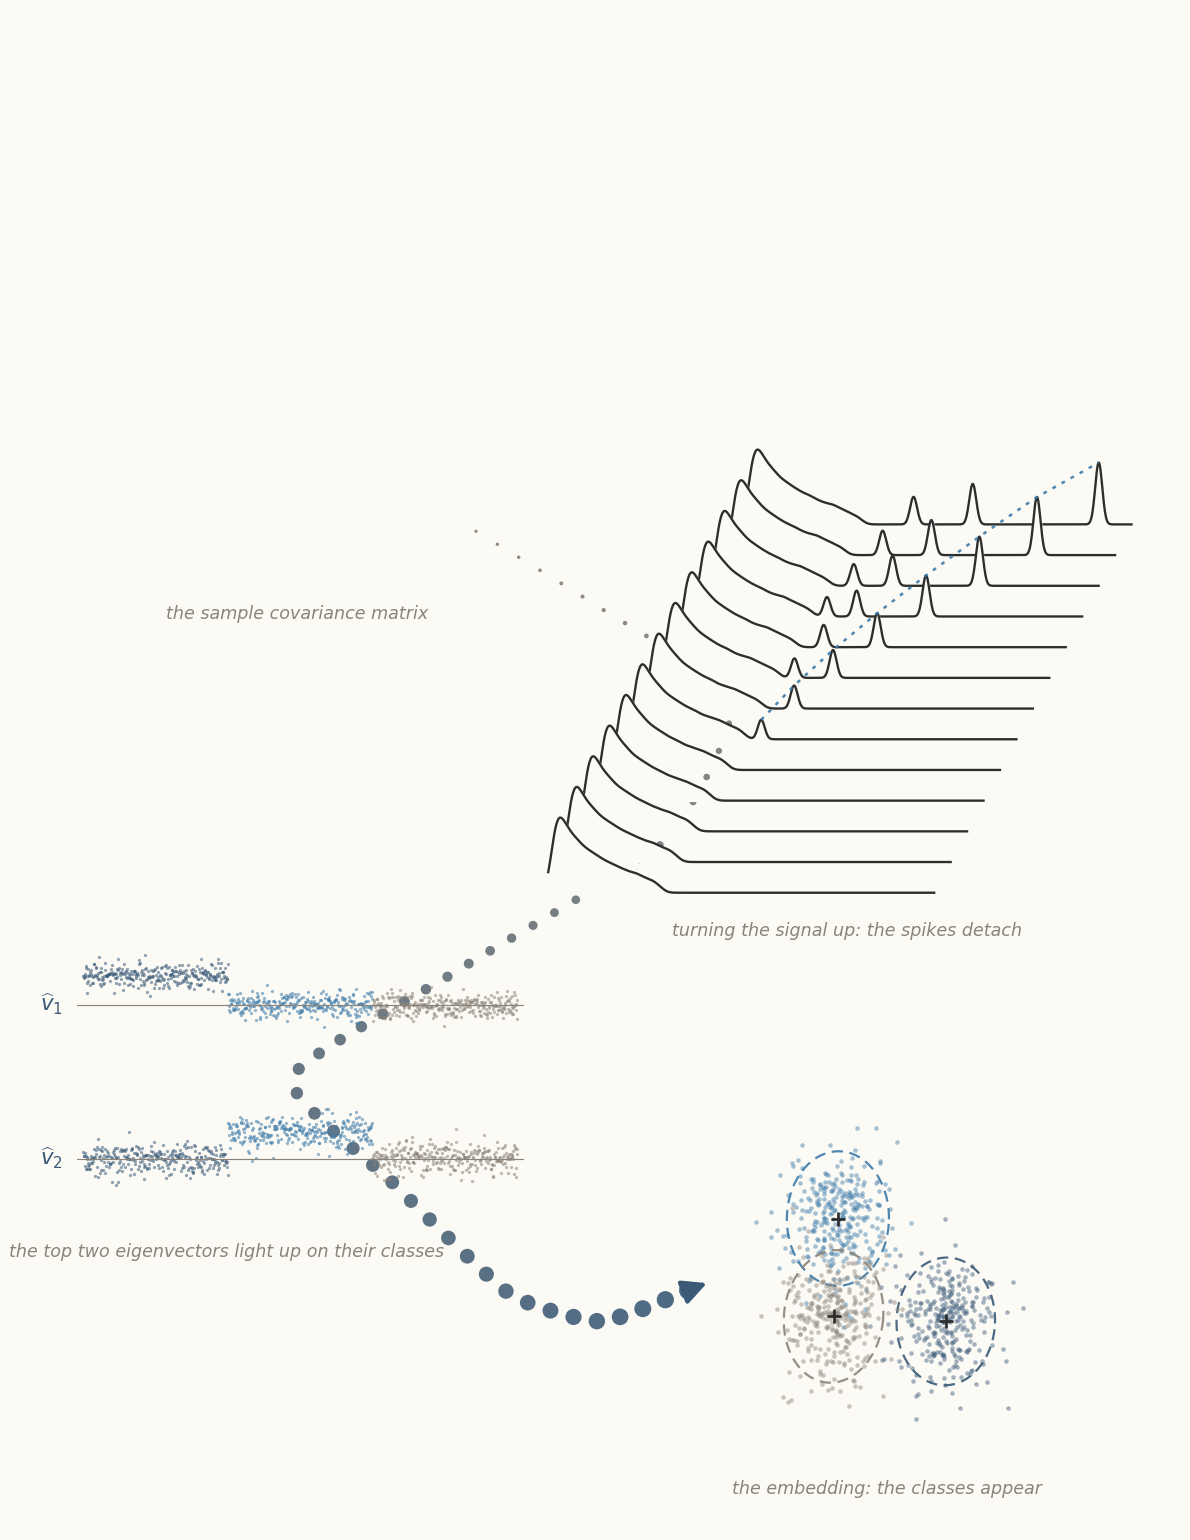
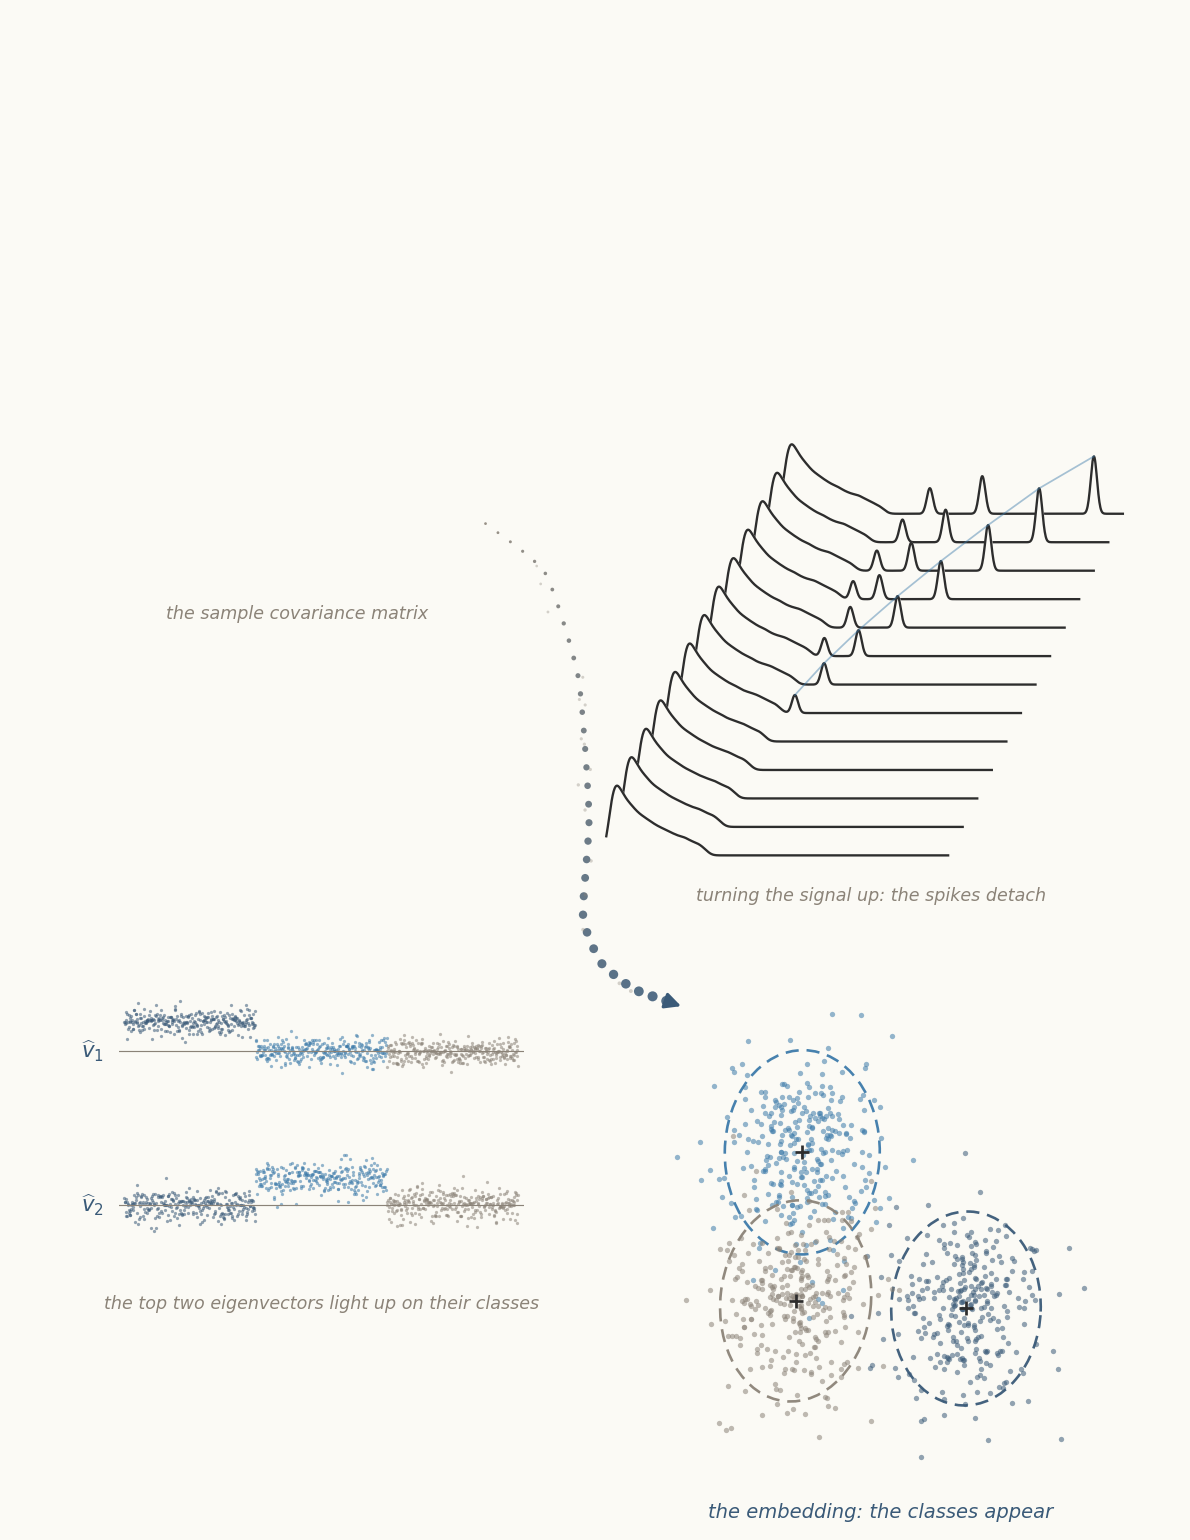
Cover v7: bigger header type, gravity-arc flow, largest finale
- Title to 28pt, subtitle 15.5pt, author 15pt, support lines to small;
  sage band deepened to 0.30in with a level slate keyline.
- The flow is now a single ballistic arc of fine particles with a
  sparse dust tail, falling through the EMPTY corridor between panels,
  never covering a figure, ending in a capture hook and slim arrowhead
  just above the blue cluster's halo.
- The embedding is now the page's largest panel, with heavier halos,
  denser points, and its caption stepped up to slate 10pt; the in-
  waterfall spike track became a thin solid muted-blue line so it can
  no longer be confused with the flow.
- Eigenvector strips moved down-right so their label column aligns
  under the matrix; captions repositioned.

Design-critic agent reviewed the previous render (10 recommendations);
applied: track/flow disambiguation, landing resolution, thicker band,
left-column alignment, louder finale, slate finale caption. Rejected
as conflicting with the new no-overlap rule or minimalism: occlusion
dots, sage rule under byline. Fixed in self-review: a diagonal band
keyline from a bad edit, and a hook that landed in mid-air.

diff --git a/notebooks/06_titlepage_art.py b/notebooks/06_titlepage_art.py
@@ -113,7 +113,7 @@ def make_cover() -> Path:
     caption(0.25, 0.598, "the sample covariance matrix")
 
     # ---- panel 2 (right): the waterfall, signal dialed up -------------------
-    ax = bare_axes([0.45, 0.41, 0.525, 0.345])
+    ax = bare_axes([0.50, 0.435, 0.465, 0.32])
     xg = np.linspace(0.01, 9.4, 700)
     edge_plus = (1 + np.sqrt(Y_ASPECT)) ** 2
     n_rows = len(rows)
@@ -139,18 +139,18 @@ def make_cover() -> Path:
         ax.plot(xs, base + z, color=INK, lw=1.2, zorder=zo + 1)
     # the comet track through the detaching peaks
     track = np.array(sorted(track))
-    ax.plot(track[:, 0], track[:, 1], ls=(0, (1.5, 2.6)), color=BLUE,
-            lw=1.3, alpha=0.9, zorder=2 * n_rows + 5)
+    ax.plot(track[:, 0], track[:, 1], ls="-", color=BLUE,
+            lw=0.9, alpha=0.45, zorder=2 * n_rows + 5)
     ax.set_xlim(-0.3, 9.4 + n_rows * xshift + 0.3)
     ax.set_ylim(-0.3, n_rows * step + 2.2)
-    caption(0.712, 0.392, "turning the signal up: the spikes detach")
+    caption(0.732, 0.415, "turning the signal up: the spikes detach")
 
     # ---- panel 3 (mid-left): the top TWO eigenvectors -----------------------
     idx = np.arange(N_DIM)
     lvl1, lvl2 = np.abs(v1).max(), np.abs(v2).max()
     for rect, vec, lvl, lab in [
-        ([0.065, 0.305, 0.375, 0.085], v1, lvl1, r"$\widehat{v}_1$"),
-        ([0.065, 0.205, 0.375, 0.085], v2, lvl2, r"$\widehat{v}_2$"),
+        ([0.10, 0.275, 0.34, 0.085], v1, lvl1, r"$\widehat{v}_1$"),
+        ([0.10, 0.175, 0.34, 0.085], v2, lvl2, r"$\widehat{v}_2$"),
     ]:
         ax = bare_axes(rect)
         for k, col in enumerate(class_colors):
@@ -162,15 +162,15 @@ def make_cover() -> Path:
         ax.set_ylim(-1.3 * lvl, 1.3 * lvl)
         fig.text(rect[0] - 0.022, rect[1] + rect[3] / 2, lab, color=SLATE,
                  fontsize=11, ha="center", va="center")
-    caption(0.19, 0.184, "the top two eigenvectors light up on their classes")
+    caption(0.27, 0.150, "the top two eigenvectors light up on their classes")
 
     # ---- panel 4 (bottom-right): the embedding finale ------------------------
     from matplotlib.patches import Ellipse
-    ax = bare_axes([0.555, 0.048, 0.385, 0.25])
+    ax = bare_axes([0.51, 0.025, 0.46, 0.345])
     emb = np.c_[v1, v2] * np.sqrt(N_DIM)
     for k, col in enumerate(class_colors):
         pts = emb[k * PER:(k + 1) * PER]
-        ax.scatter(pts[:, 0], pts[:, 1], s=5.5, color=col, alpha=0.45,
+        ax.scatter(pts[:, 0], pts[:, 1], s=7.5, color=col, alpha=0.55,
                    linewidths=0)
         mu = pts.mean(0)
         C = np.cov(pts.T)
@@ -178,30 +178,28 @@ def make_cover() -> Path:
         ang = np.degrees(np.arctan2(evecs[1, -1], evecs[0, -1]))
         ax.add_patch(Ellipse(mu, 4 * np.sqrt(evals[-1]), 4 * np.sqrt(evals[0]),
                              angle=ang, fill=False, ls=(0, (5, 3)),
-                             edgecolor=col, lw=1.15, alpha=0.9))
+                             edgecolor=col, lw=1.35, alpha=0.95))
         ax.plot(*mu, marker="+", ms=7, mew=1.4, color=INK)
     ax.set_aspect("equal")
-    ax.margins(0.16)
-    caption(0.745, 0.030, "the embedding: the classes appear")
+    ax.margins(0.10)
+    fig.text(0.74, 0.014, "the embedding: the classes appear", style="italic",
+             fontsize=10, color=SLATE, ha="center")
 
-    # ---- the flow: a crescendo of dots from the matrix to the classes ------
-    # Drawn on a full-page axes BELOW every panel, so the waterfall's opaque
-    # ridges occlude it: the line dives behind the figure and re-emerges
-    # through the gaps. Dot size grows from a whisper at the matrix to full
-    # voice as it settles into the clouds; color blends warm gray to slate.
+    # ---- the flow: a gravity arc from the matrix to the classes ------------
+    # A single ballistic curve through the EMPTY corridor between the panels;
+    # it never covers a figure. Fine particles grow gently along the fall and
+    # a sparse dust tail trails them; the arc ends in a capture hook at the
+    # edge of the clouds.
     waypoints = np.array([
-        (0.400, 0.655),   # leave the matrix, small
-        (0.505, 0.605),   # enter the waterfall's lower body
-        (0.615, 0.545),   # through the spikes
-        (0.560, 0.455),   # dive out below the ridges
-        (0.385, 0.370),   # cross the first eigenvector strip
-        (0.245, 0.300),   # between the strips
-        (0.330, 0.232),   # back through the second strip
-        (0.428, 0.160),   # dive clear right of the caption
-        (0.505, 0.142),   # approach the finale
-        (0.578, 0.162),   # settle at the halo's edge
+        (0.408, 0.660),   # leave the matrix, small
+        (0.458, 0.628),   # drift right
+        (0.486, 0.560),   # gravity takes hold
+        (0.495, 0.470),   # falling down the corridor
+        (0.490, 0.405),   # past the strips, clear of the waterfall
+        (0.505, 0.375),   # the capture hook begins
+        (0.532, 0.358),   # bending toward the clouds
+        (0.560, 0.350),   # arriving above the blue halo
     ])
-    # Catmull-Rom spline through the waypoints
     n_wp = len(waypoints)
     tang = np.zeros_like(waypoints)
     for i in range(n_wp):
@@ -216,13 +214,12 @@ def make_cover() -> Path:
                + 3 * (1 - t) * t ** 2 * c1 + t ** 3 * p1)
         dense.append(seg)
     dense = np.vstack(dense)
-    # arc-length resampling so the dots are evenly spaced
     d = np.r_[0, np.cumsum(np.hypot(*np.diff(dense, axis=0).T))]
-    n_dots = 56
+    n_dots = 33
     u = np.linspace(0, d[-1], n_dots)
     dots = np.c_[np.interp(u, d, dense[:, 0]), np.interp(u, d, dense[:, 1])]
     frac = np.linspace(0, 1, n_dots)
-    sizes = 3.0 + 78.0 * frac ** 1.7
+    sizes = 2.0 + 26.0 * frac ** 1.6
     g, sl = np.array([0x8B, 0x83, 0x78]) / 255, np.array([0x3A, 0x5A, 0x78]) / 255
     colors = (1 - frac[:, None]) * g + frac[:, None] * sl
     ax_flow = fig.add_axes([0, 0, 1, 1])
@@ -232,15 +229,22 @@ def make_cover() -> Path:
     ax_flow.set_xlim(0, 1)
     ax_flow.set_ylim(0, 1)
     ax_flow.scatter(dots[:, 0], dots[:, 1], s=sizes, c=colors,
-                    alpha=0.9, linewidths=0)
-    # the arrowhead, full size, settling into the clouds
+                    alpha=0.88, linewidths=0)
+    # the dust tail: faint companions just off the path
+    dust_rng = np.random.default_rng(11)
+    pick = dust_rng.choice(np.arange(4, n_dots - 2), size=16, replace=False)
+    jitter = dust_rng.normal(0, 0.0045, size=(16, 2))
+    ax_flow.scatter(dots[pick, 0] + jitter[:, 0], dots[pick, 1] + jitter[:, 1],
+                    s=1.6 + 2.5 * frac[pick], color=GRAY, alpha=0.35,
+                    linewidths=0)
+    # a slim head where the arc is captured by the clusters
     tip = dots[-1]
-    direction = dots[-1] - dots[-4]
+    direction = dots[-1] - dots[-3]
     direction = direction / np.hypot(*direction)
     from matplotlib.patches import FancyArrowPatch
     ax_flow.add_patch(FancyArrowPatch(
-        tip, tip + direction * 0.020, arrowstyle="-|>",
-        mutation_scale=26, color=sl, linewidth=2.2))
+        tip, tip + direction * 0.016, arrowstyle="-|>",
+        mutation_scale=17, color=sl, linewidth=1.6))
 
     # (the header and the numeric matrix are typeset by frontmatter/titlepage.tex)
 

diff --git a/frontmatter/titlepage.tex b/frontmatter/titlepage.tex
@@ -20,26 +20,26 @@
 
   % ----- top accent band
   \fill[coverSage] (current page.north west) rectangle
-    ([yshift=-0.16in]current page.north east);
+    ([yshift=-0.30in]current page.north east);
   \draw[coverSlate, line width=0.7pt]
-    ([yshift=-0.16in]current page.north west) --
-    ([yshift=-0.16in]current page.north east);
+    ([yshift=-0.30in]current page.north west) --
+    ([yshift=-0.30in]current page.north east);
 
   % ----- header: title, subtitle, author, all at the top
-  \node[anchor=center] at ([yshift=-1.02in]current page.north)
-    {\fontsize{24}{29}\selectfont\bfseries\textcolor{coverInk}{A STUDY OF RANDOM MATRICES}};
+  \node[anchor=center] at ([yshift=-1.06in]current page.north)
+    {\fontsize{28}{33}\selectfont\bfseries\textcolor{coverInk}{A STUDY OF RANDOM MATRICES}};
 
-  \node[anchor=center] at ([yshift=-1.47in]current page.north)
-    {\fontsize{13}{16}\selectfont\itshape\textcolor{coverSlate}{From Foundations to Spectral Clustering}};
+  \node[anchor=center] at ([yshift=-1.57in]current page.north)
+    {\fontsize{15.5}{19}\selectfont\itshape\textcolor{coverSlate}{From Foundations to Spectral Clustering}};
 
-  \node[anchor=center] at ([yshift=-1.88in]current page.north)
-    {\large\textcolor{coverInk}{ARZAAN SINGH}};
+  \node[anchor=center] at ([yshift=-2.02in]current page.north)
+    {\fontsize{15}{18}\selectfont\textcolor{coverInk}{ARZAAN SINGH}};
 
-  \node[anchor=center] at ([yshift=-2.15in]current page.north)
-    {\footnotesize\textcolor{coverInk}{Under the supervision of Professor Gustavo Didier}};
+  \node[anchor=center] at ([yshift=-2.32in]current page.north)
+    {\small\textcolor{coverInk}{Under the supervision of Professor Gustavo Didier}};
 
-  \node[anchor=center] at ([yshift=-2.41in]current page.north)
-    {\footnotesize\textcolor{coverGray}{\itshape An Independent Study Report\/}\footnotesize\textcolor{coverInk}{\,\(\cdot\)\,Department of Mathematics, Tulane University\,\(\cdot\)\,June 2026}};
+  \node[anchor=center] at ([yshift=-2.60in]current page.north)
+    {\small\textcolor{coverGray}{\itshape An Independent Study Report\/}\footnotesize\textcolor{coverInk}{\,\(\cdot\)\,Department of Mathematics, Tulane University\,\(\cdot\)\,June 2026}};
 
   % ----- panel 1: the top corner of the SCM, this simulation's values
   \node[anchor=center] at ([xshift=-2.10in, yshift=-3.55in]current page.north)